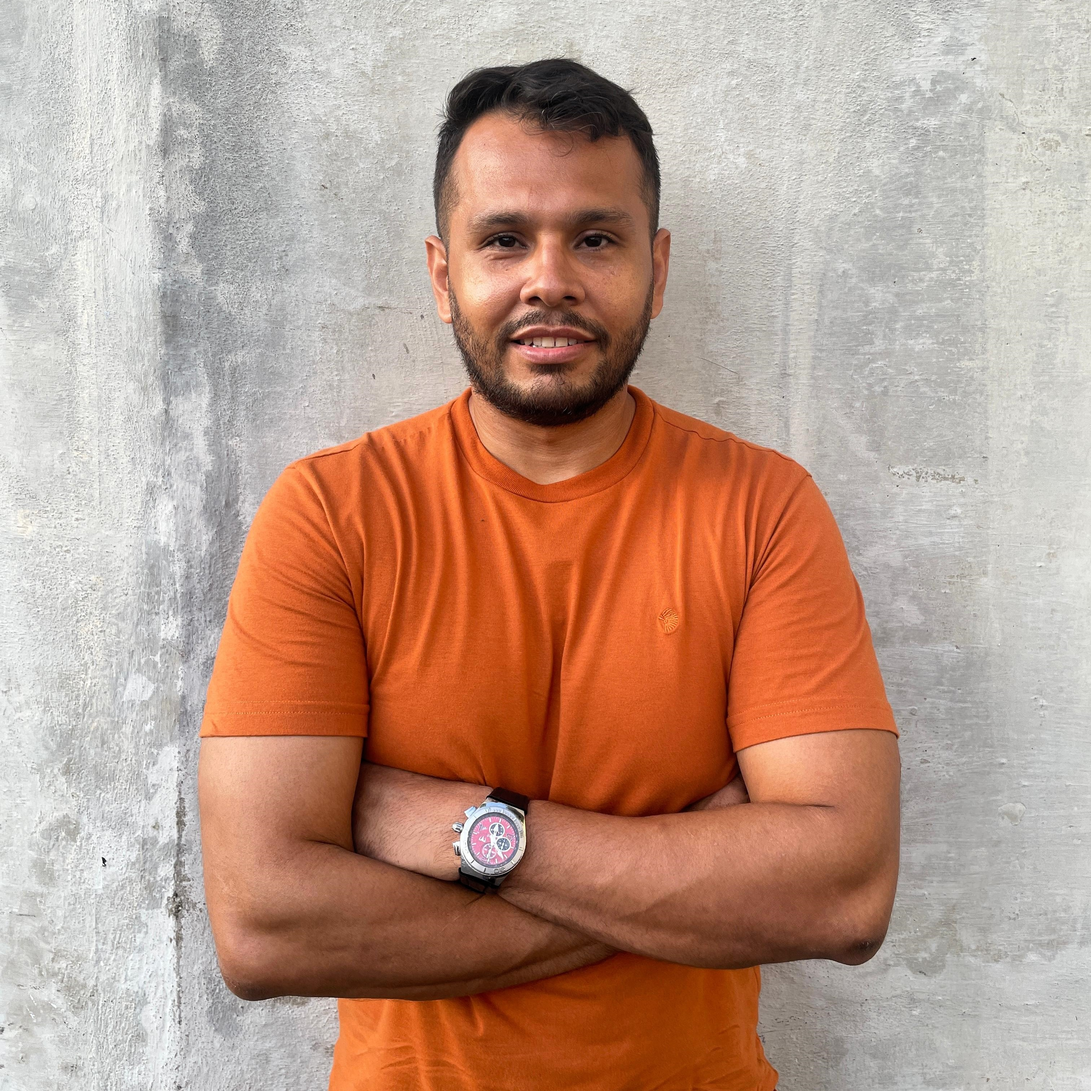
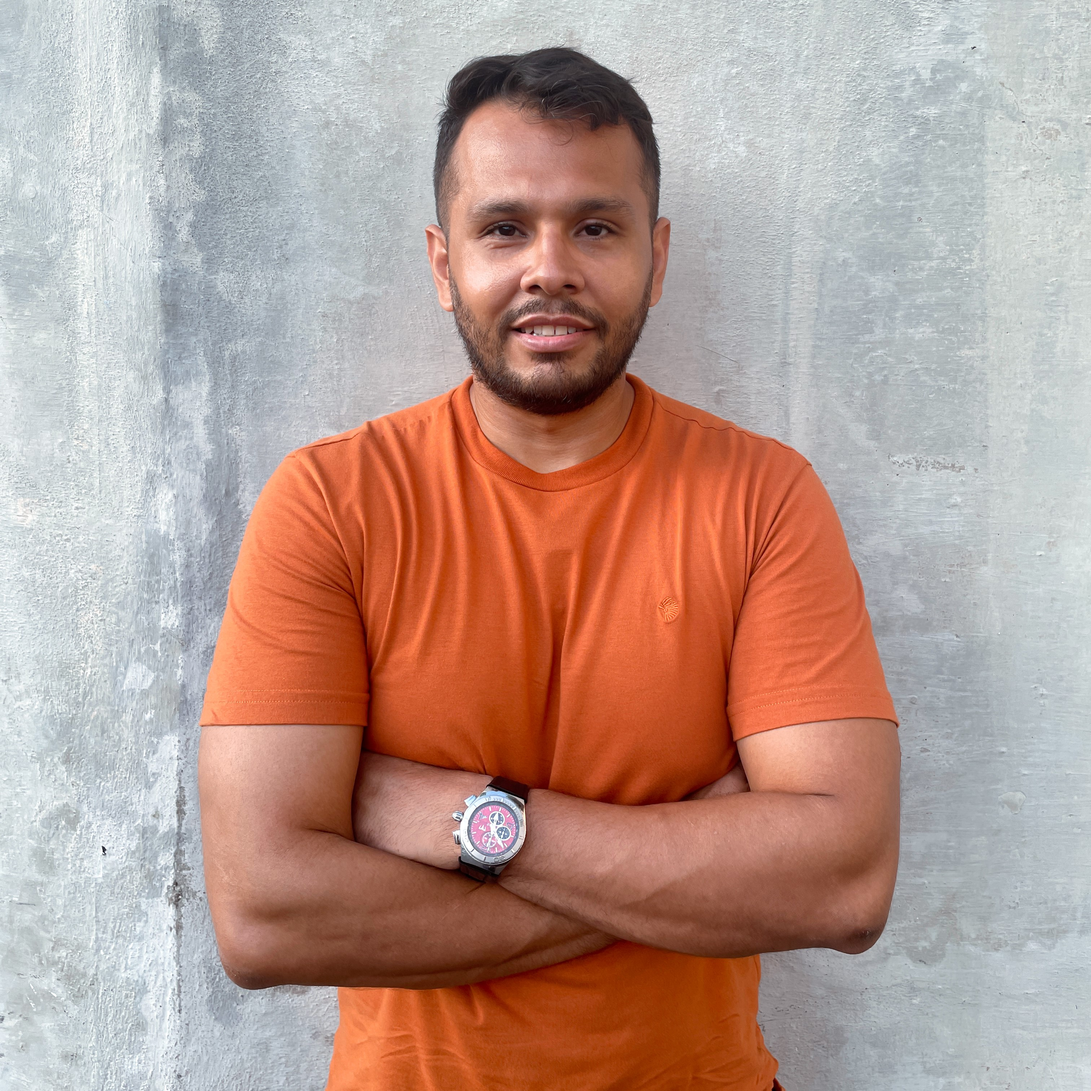
WIP: resume updated, the columns of Professional Experience and Education are switched and the Education section was improved

diff --git a/index.html b/index.html
@@ -105,7 +105,7 @@
 
         <div class="row">
           <div class="col-lg-4" data-aos="fade-right">
-            <img src="assets/img/profile-rr.jpeg" class="img-fluid" alt="">
+            <img src="assets/img/profile-rr.jpeg" class="img-fluid rounded-border" alt="">
           </div>
           <div class="col-lg-8 pt-4 pt-lg-0 content" data-aos="fade-left">
             <h3>Flutter app, python &amp; hardware developer.</h3>
@@ -298,43 +298,7 @@
         </div>
 
         <div class="row">
-          <div class="col-lg-6" data-aos="fade-up">
-            <!-- <h3 class="resume-title">Sumary</h3>
-            <div class="resume-item pb-0">
-              <h4>Alex Smith</h4>
-              <p><em>Innovative and deadline-driven Graphic Designer with 3+ years of experience designing and developing user-centered digital/print marketing material from initial concept to final, polished deliverable.</em></p>
-              <ul>
-                <li>Portland par 127,Orlando, FL</li>
-                <li>(123) 456-7891</li>
-                <li>alice.barkley@example.com</li>
-              </ul>
-            </div> -->
 
-            <h3 class="resume-title">Education</h3>
-            <!-- <div class="resume-item">
-              <h4>Master of Fine Arts &amp; Graphic Design</h4>
-              <h5>2015 - 2016</h5>
-              <p><em>Rochester Institute of Technology, Rochester, NY</em></p>
-              <p>Qui deserunt veniam. Et sed aliquam labore tempore sed quisquam iusto autem sit. Ea vero voluptatum qui ut dignissimos deleniti nerada porti sand markend</p>
-            </div> -->
-            <div class="resume-item">
-              <h4>Bachelor of Fine Arts &amp; Graphic Design</h4>
-              <h5>2020 - Present</h5>
-              <p><em>Digital training</em></p>
-              <p>As part of my professional development plan I have taken digital courses on platforms such as UDEMY, PLATZI, YOUTUBE and internet in general learning technologies such as Python, Dart, Flutter, WEB design, FIGMA, Git, SCRUM. Below are some of the academies I have attended:</p>
-              <ul>
-                <li><b>MisionTIC 2022</b> - Programming fundamentals and digital technologies.</li>
-                <li><b>Python (https://javierdaza.co/)</b> - Python learning and WEB development bootcamp.</li>
-                <li><b>Python at COURSERA</b> - Python learning certified.</li>
-              </ul>
-            </div>
-            <div class="resume-item">
-              <h4>Bachelor of Electronic &amp; Telecommunications engineer</h4>
-              <h5>Feb 2007 - Dec 2011</h5>
-              <p><em>Autónoma del Caribe University, Atlántico, CO</em></p>
-              <p>As an Electronic and Telecommunications engineer I learned basics of programming knowledges, logical and solving problems thinking, analog and digital electronic design, signals interpreting, technical english, PCB design and got the skills to continue learning in self-taught way.</p>
-            </div>
-          </div>
           <div class="col-lg-6" data-aos="fade-up" data-aos-delay="100">
             <h3 class="resume-title">Professional Experience</h3>
             <div class="resume-item">
@@ -377,6 +341,48 @@
               </ul>
             </div>
           </div>
+          <div class="col-lg-6" data-aos="fade-up">
+            <!-- <h3 class="resume-title">Sumary</h3>
+            <div class="resume-item pb-0">
+              <h4>Alex Smith</h4>
+              <p><em>Innovative and deadline-driven Graphic Designer with 3+ years of experience designing and developing user-centered digital/print marketing material from initial concept to final, polished deliverable.</em></p>
+              <ul>
+                <li>Portland par 127,Orlando, FL</li>
+                <li>(123) 456-7891</li>
+                <li>alice.barkley@example.com</li>
+              </ul>
+            </div> -->
+
+            <h3 class="resume-title">Education</h3>
+            <!-- <div class="resume-item">
+              <h4>Master of Fine Arts &amp; Graphic Design</h4>
+              <h5>2015 - 2016</h5>
+              <p><em>Rochester Institute of Technology, Rochester, NY</em></p>
+              <p>Qui deserunt veniam. Et sed aliquam labore tempore sed quisquam iusto autem sit. Ea vero voluptatum qui ut dignissimos deleniti nerada porti sand markend</p>
+            </div> -->
+            <div class="resume-item">
+              <h4>Python learning and WEB development bootcamp.</h4>
+              <h5>2020 - Present</h5>
+              <p><em>https://javierdaza.co/</em></p>
+              <p>Practice learning course of Python programming language focused in OOP, data collections and projects implementation. An application bootcamp is also included where development tools such as Git, Github, databases, frameworks such as Bootstrap and web technologies are integrated.</p>
+            </div>
+            <div class="resume-item">
+              <h4>Complementary digital training</h4>
+              <h5>Since 2020</h5>
+              <p>As part of my professional development plan I have taken digital courses on platforms such as UDEMY, PLATZI, YOUTUBE and internet in general learning technologies such as Python, Dart, Flutter, WEB design, FIGMA, Git, SCRUM. Below are some of the academies I have attended:</p>
+              <ul>
+                <li><b>MisionTIC 2022</b> - Programming fundamentals and digital technologies.</li>
+                <li><b>Python at COURSERA</b> - Python learning certified.</li>
+              </ul>
+            </div>
+            <div class="resume-item">
+              <h4>Bachelor of Electronic &amp; Telecommunications engineer</h4>
+              <h5>Feb 2007 - Dec 2011</h5>
+              <p><em>Autónoma del Caribe University, Atlántico, CO</em></p>
+              <p>As an Electronic and Telecommunications engineer I learned basics of programming knowledges, logical and solving problems thinking, analog and digital electronic design, signals interpreting, technical english, PCB design and got the skills to continue learning in self-taught way.</p>
+            </div>
+          </div>
+          
         </div>
 
       </div>

diff --git a/assets/css/style.css b/assets/css/style.css
@@ -33,6 +33,10 @@ h6 {
   font-family: "Raleway", sans-serif;
 }
 
+.rounded-border{
+  border-radius: 16px;
+}
+
 /*--------------------------------------------------------------
 # Back to top button
 --------------------------------------------------------------*/
@@ -501,6 +505,7 @@ section {
   display: inline-block;
   font-weight: 600;
   margin-bottom: 10px;
+  border-radius: 8px;
 }
 
 .resume .resume-item ul {
